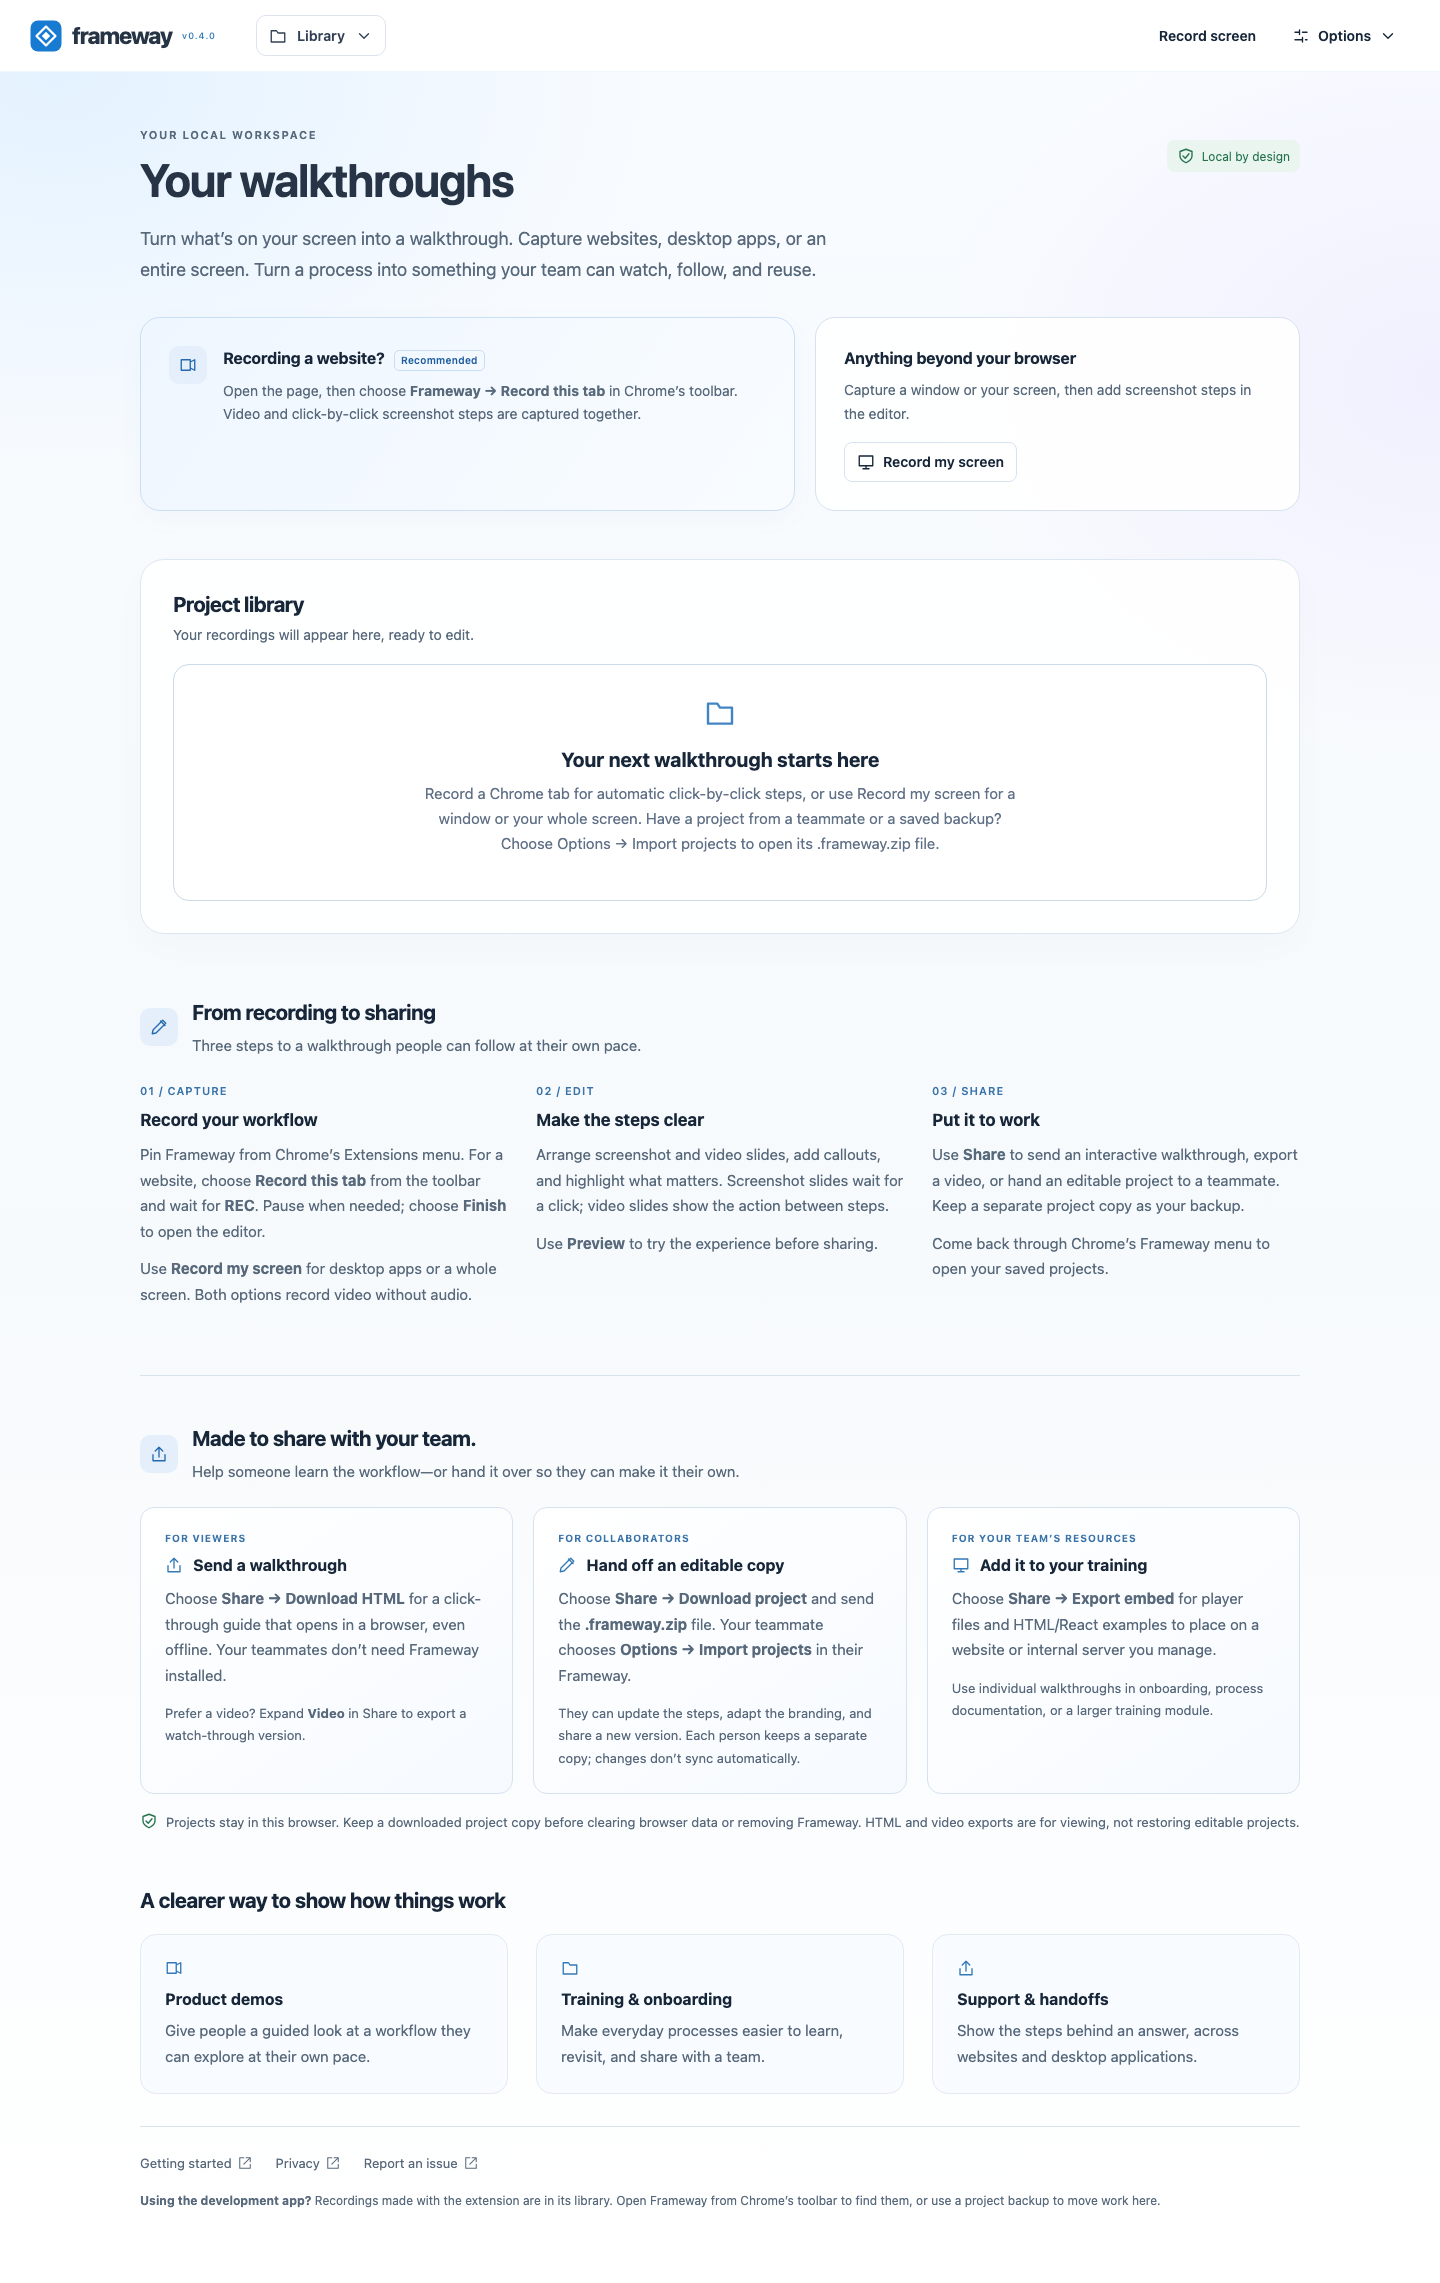
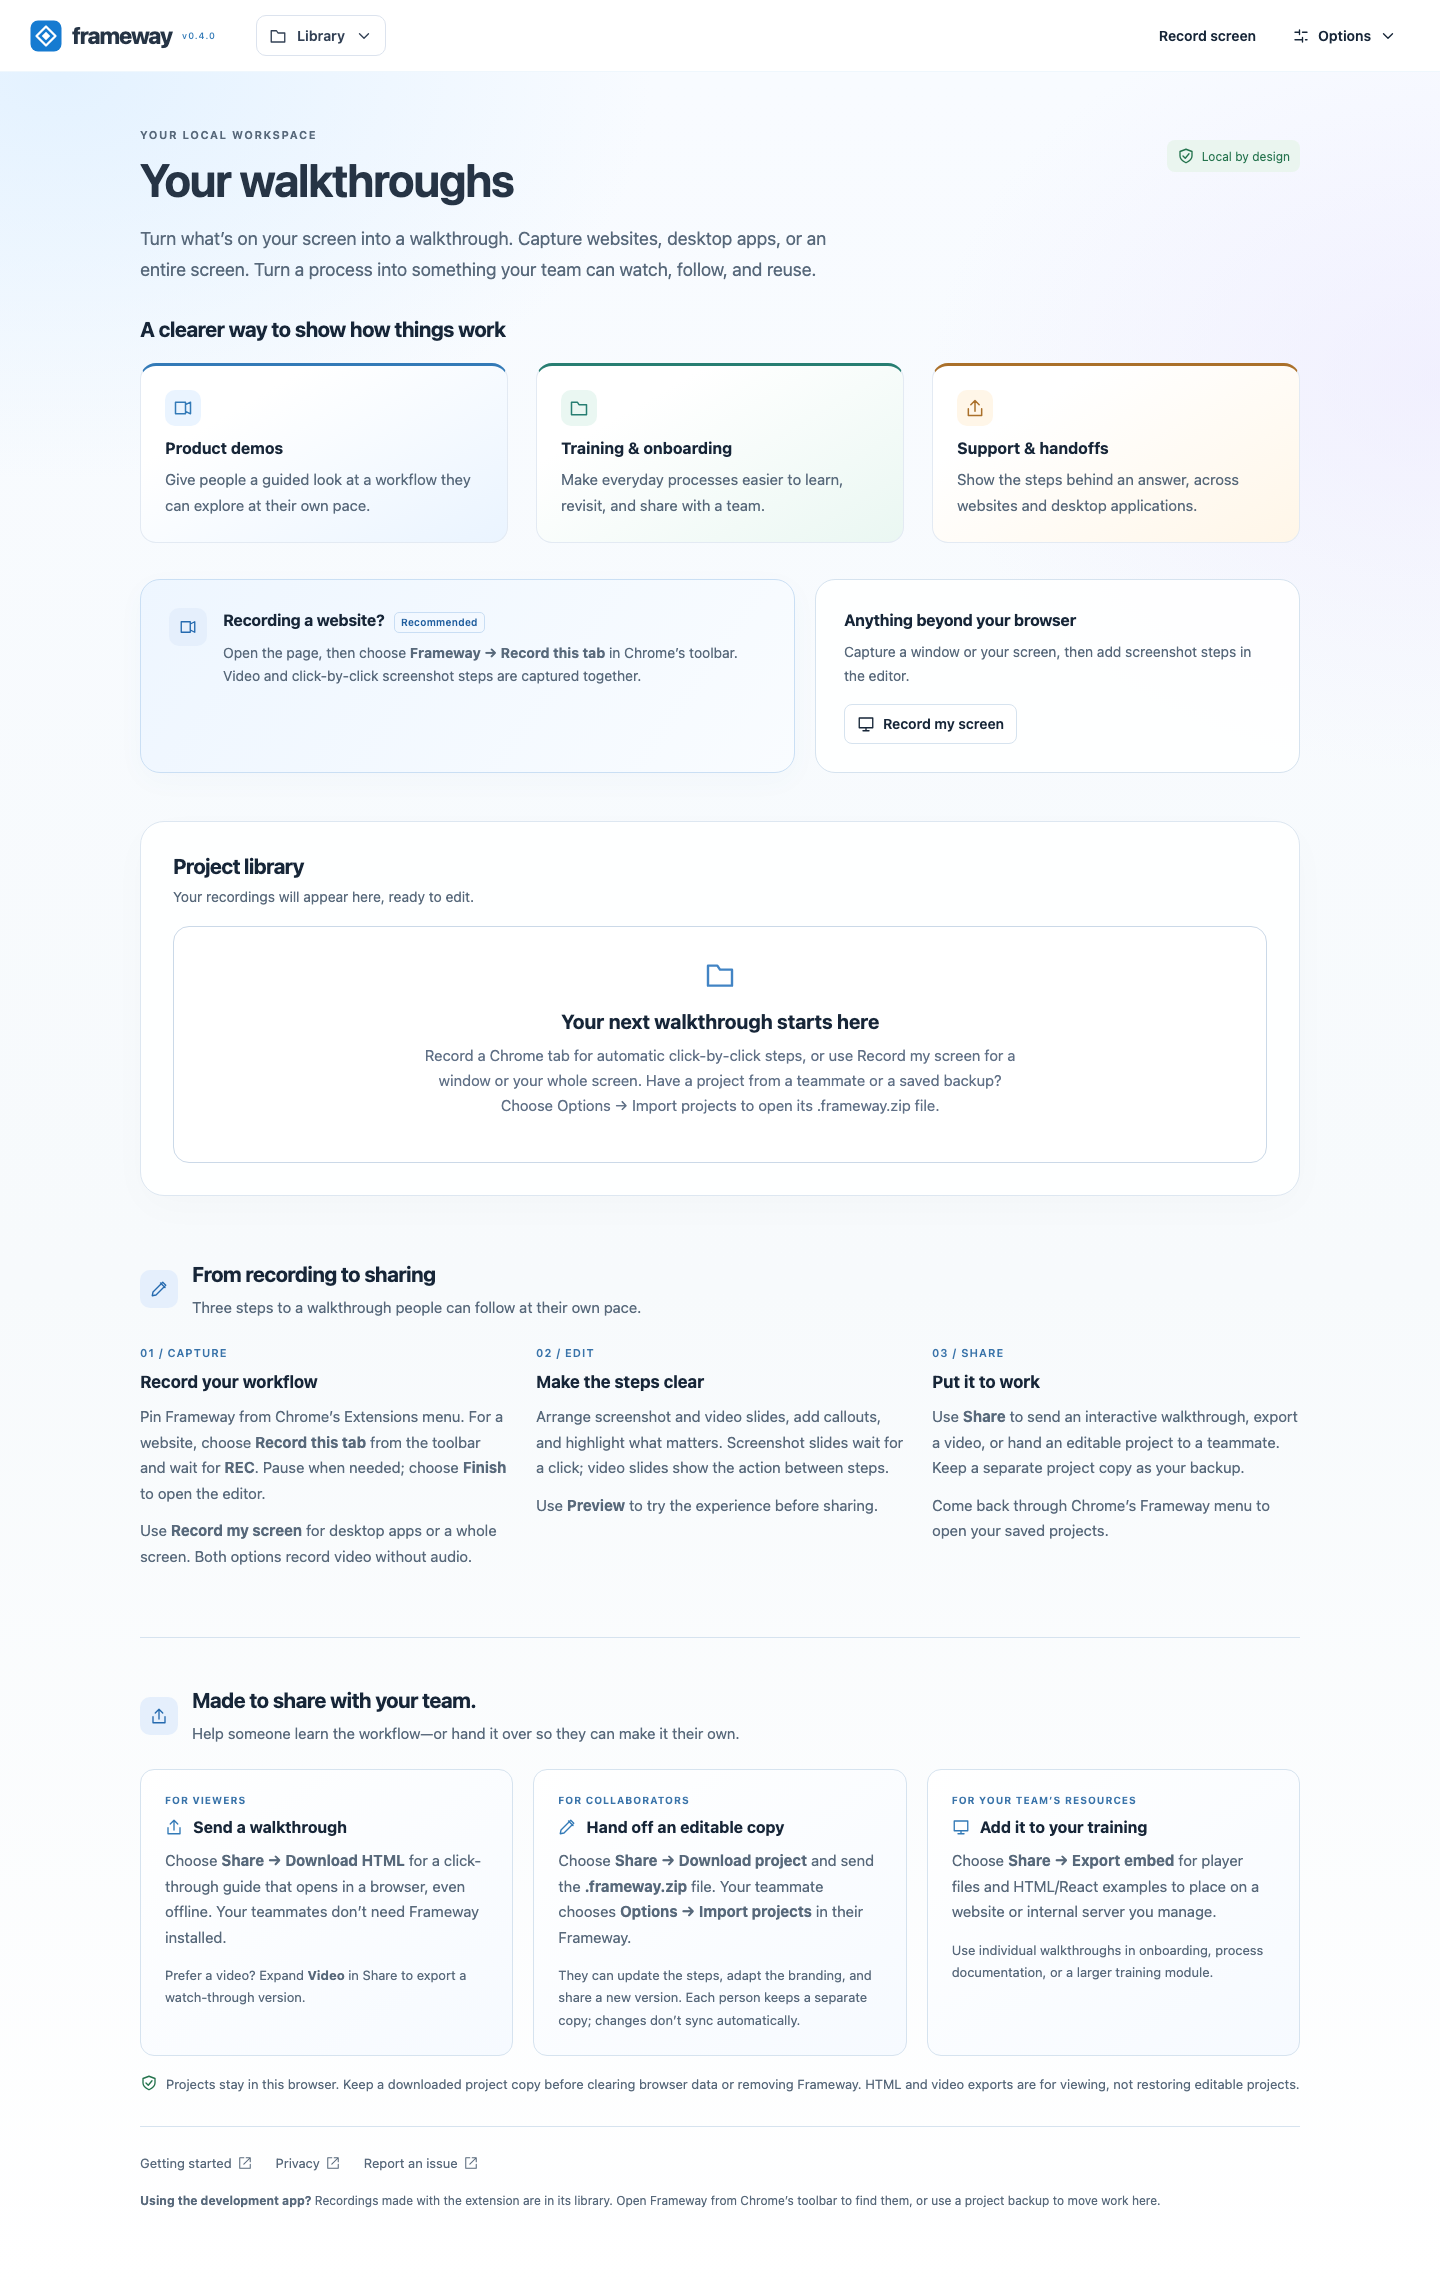
Promote use cases for new users with subtle color and hover feedback

diff --git a/src/styles/home.css b/src/styles/home.css
@@ -653,3 +653,47 @@
     grid-template-columns: 1fr;
   }
 }
+
+/* Explain the possibilities first for a new library; keep saved work first on return. */
+.home-heading + .use-cases {
+  margin: 0 auto 36px;
+}
+.home-page .use-case-grid article {
+  --use-case-accent: #337ab7;
+  --use-case-tint: #eaf4ff;
+  border-top: 3px solid var(--use-case-accent);
+  background: linear-gradient(150deg, #fff 25%, var(--use-case-tint));
+}
+.home-page .use-case-grid article:nth-child(2) {
+  --use-case-accent: #277e72;
+  --use-case-tint: #eaf7f2;
+}
+.home-page .use-case-grid article:nth-child(3) {
+  --use-case-accent: #aa702a;
+  --use-case-tint: #fff6e8;
+}
+.home-page .use-case-grid article > svg {
+  width: 36px;
+  height: 36px;
+  padding: 8px;
+  border-radius: 10px;
+  background: var(--use-case-tint);
+  color: var(--use-case-accent);
+}
+@media (hover: hover) {
+  .home-page .use-case-grid article:hover {
+    border-color: var(--use-case-accent);
+    box-shadow: 0 8px 22px #25354a0d;
+  }
+}
+@media (hover: hover) and (prefers-reduced-motion: no-preference) {
+  .home-page .use-case-grid article {
+    transition:
+      transform 180ms ease,
+      box-shadow 180ms ease,
+      border-color 180ms ease;
+  }
+  .home-page .use-case-grid article:hover {
+    transform: translateY(-3px);
+  }
+}

diff --git a/src/HomePage.tsx b/src/HomePage.tsx
@@ -39,6 +39,7 @@ export function HomePage({ onRecord, ...library }: HomePageProps) {
           <Icon name="shield" /> Local by design
         </span>
       </div>
+      {library.projects.length === 0 && <UseCases />}
       <section className="capture-choices" aria-label="Ways to record">
         <div className="capture-recommended">
           <span className="home-section-icon">
@@ -67,6 +68,7 @@ export function HomePage({ onRecord, ...library }: HomePageProps) {
       <div className="home-workspace">
         <ProjectLibrary {...library} />
       </div>
+      {library.projects.length > 0 && <UseCases />}
       <HomeIntro />
       <section className="home-sharing home-reveal" aria-labelledby="sharing-title">
         <div className="home-section-heading">
@@ -129,7 +131,6 @@ export function HomePage({ onRecord, ...library }: HomePageProps) {
           not restoring editable projects.
         </p>
       </section>
-      <UseCases />
       <div className="home-resources">
         <a
           href="https://github.com/NicholasMicali/frameway/blob/main/docs/BETA-TESTING.md"
